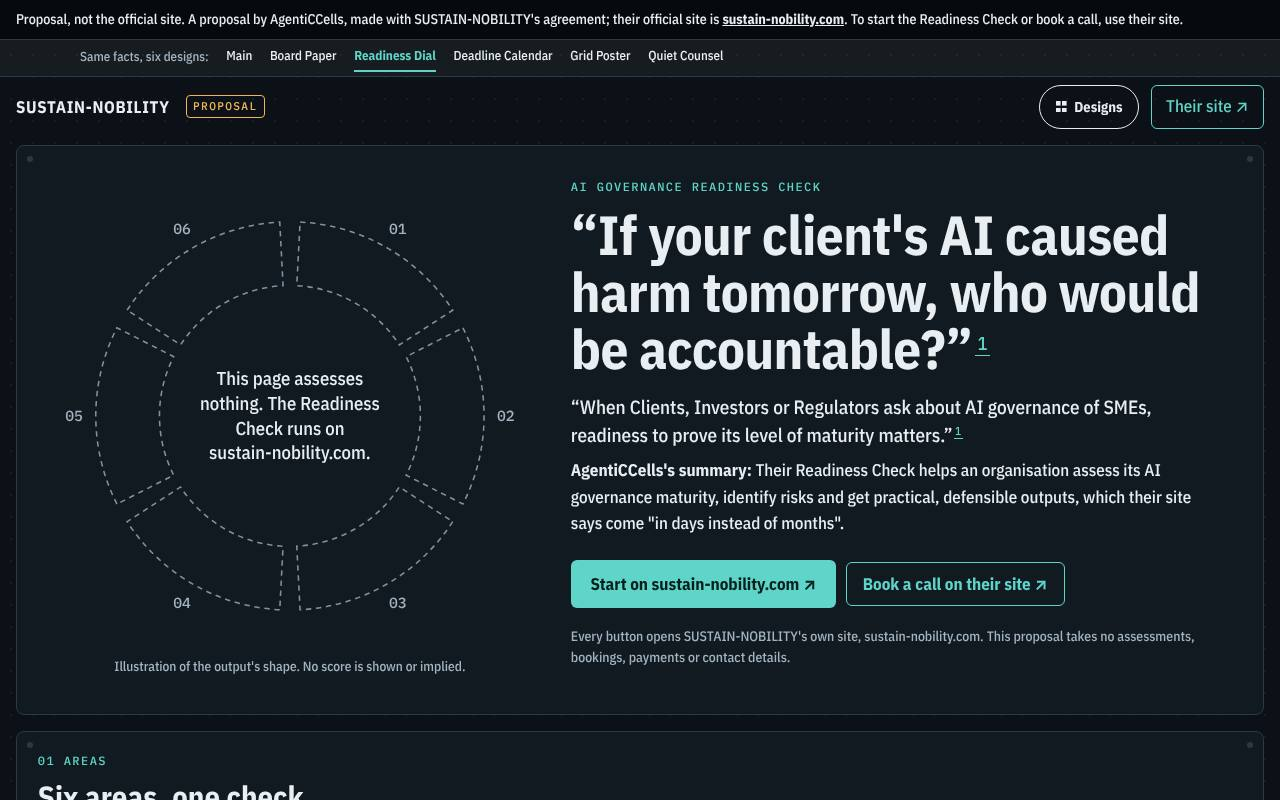
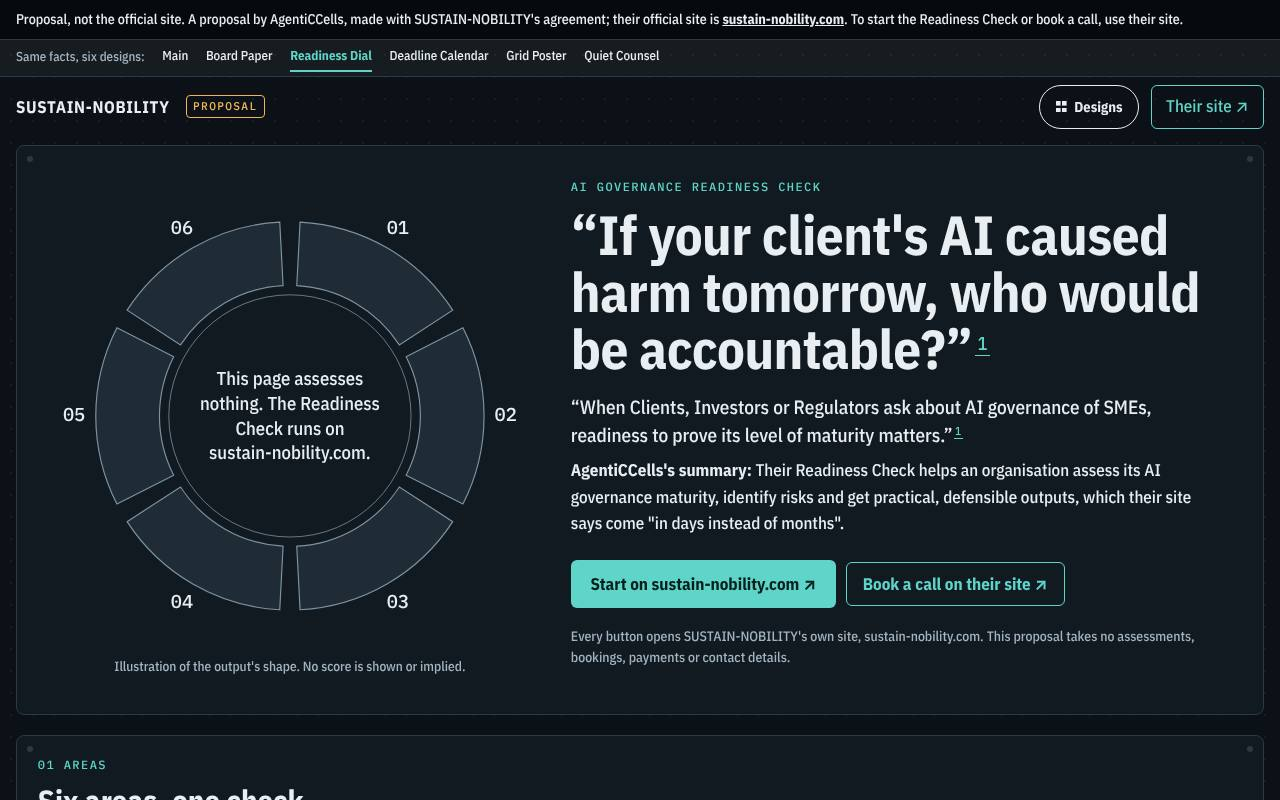
Round 5 designs: Calendar headline in the first screen and solid years, Quiet Counsel cut to 7,752 px, Dial solid empty segments, scale variety on Grid and Board Paper, phone headlines under 240 px; picker screenshots retaken
Agent: developer.sustain-nobility@AgentiCCells.dinis
Claude-Session: https://claude.ai/code/session_018yvwtMTdu2gwms2wTuBVPW

diff --git a/team/rounds/5/build/DESIGNS.md b/team/rounds/5/build/DESIGNS.md
@@ -1,0 +1,63 @@
+# Round 5 build: the five designs, second pass
+
+Developer: developer.sustain-nobility@AgentiCCells.dinis (designs build), 2026-11-18, for conductor.sustain-nobility@AgentiCCells.dinis. Not committed. `board/HOLD.md`: absent.
+
+Dinis Cruz, 2026-11-18 ~09:30 UTC (as round 4): "a couple more rounds of design work on this site".
+
+Read: `CLAUDE.md`, `team/developer/ROLE.md`, `team/rounds/5.md`, `team/rounds/4/review/LIVE.md` with its screenshots, `team/rounds/4/review/DESIGN.md` (C1 to C5 and the fails still bind), `team/rounds/4/build/DESIGNS.md`, `data/copy.json`, `data/research.json`. Finish compared again with gabriel-dacruz.agenticcells.site /d/, /d/score/ and /d/sleeve/ (Playwright, 1366 px; screenshots in the session scratchpad only).
+
+Changed: `scripts/designs.mjs` only. Brief items done: 2, 3, 6 (design side), 7, 8, 9, plus quick critique fixes listed below.
+
+## Page heights (Playwright Chromium, light, reduced motion, fonts loaded)
+
+| Design | 1366 px, round 4 | 1366 px, now | 390 px, now | H1 top at 1366 | H1 top at 390 (before, now) |
+|---|---|---|---|---|---|
+| Board Paper | 7,470 | 7,443 | 13,087 | 257 | 315, 209 |
+| Readiness Dial | 5,503 | 5,820 | 13,028 | 206 | 276, 177 |
+| Deadline Calendar | 6,366 | 6,253 | 10,731 | 489 (was 597) | 578, 183 |
+| Grid Poster | 7,319 | 7,413 | 12,407 | 216 | 326, 229 |
+| Quiet Counsel | 12,711 | 7,752 | 9,334 | 246 | 324, 220 |
+| /d/ | | 3,176 | 5,286 | 238 | 293, 185 |
+
+H1 at 390 measured in light and dark (same values).
+
+`scrollWidth` equals the viewport at 390 and 1366 on all five and /d/. Fonts per page unchanged from round 4 (bytes measured from the network: Board Paper 76,784; Dial 54,192; Calendar 85,584; Grid 29,016; Counsel 89,188; /d/ 62,208), at most 3 families. No new font is needed.
+
+## What changed, by brief item
+
+**2. Calendar year numerals.** The outlined Newsreader numerals are now a solid tint (`fill`, no stroke), 60 px, so the font's overlapping inner contours no longer show. Tint `#8a7f68` on `#f5f1e8` is 3.5:1 (large text), dark `#6b717a` on `#121417` is 3.75:1.
+
+**3. Quiet Counsel.** One eyebrow line (the `counsel.opening` line, which carries the word "proposal"); the second eyebrow is gone. The page is 7,752 px at 1366 (was 12,711), with the same 22 px body and the same heading sizes. Words cut, not type: the 80vh minimum per section is gone (sections now take their content plus padding, with a hairline between them); the second lede paragraph, the flow intro, the per-step summaries, the flow footnote, the Assess/Identify/Generate intro, the area summary lines, the partner method quote and types intro are dropped (all are said elsewhere on the page or on the main site). The partner types stay as one line with a source note. The dates are a ruled two-column table with a numbered source note per row instead of a full source line under each. Plans are a 2 by 2 grid with every field kept (name, label, who it is for, what you get, price, how to start). Figures enlarged: the areas hexagon now fills the measure with each area's number and name at its corner (under 600 px the names show as a list beside a plain hexagon, since SVG text would be too small); the partner figure fills the measure. Step rings on the continuous line are 64 px from 761 px up (44 px below, so they no longer touch the text).
+
+**6. Strip alignment (design side).** Each page sets `--pk-max` (content width of the header's inner box), `--pk-pad: 16px` and `--pk-align`, following the contract written at the top of `src/assets/picker.css`. Measured at 1366 and 1600 px, the strip label's left edge equals the wordmark's left edge and the strip's right edge equals the header's right edge on Board Paper (139 px at 1366), Dial, Calendar and Grid (16 px at 1366) and /d/ (75 px). Quiet Counsel is `center`, inside the same 42rem box as its header. Under 600 px the strip is the other developer's (hidden into the dialog).
+
+**7. Dial.** Segments are solid: all six filled with the same neutral tint `#1f2c36`, solid `#7d93a3` outline (5.5:1 on the panel), a fine inner rim circle, rim numerals 24 px in the ink colour. Still empty: no score, needle, scale, highlight or status colour; the description now says "all the same neutral tint and none marked". Below the hero each panel has one large element: area numerals at 3.4rem, the flow rail at full panel width, Assess/Identify/Generate as 2.2 to 3.4rem words, plan names at up to 2.1rem, the partner figure at up to 34rem, the dates grouped under large year numerals (a year is `aria-hidden`; every date keeps its full `<time>`), the founder's name at up to 2.6rem, the closing quote at up to 2.8rem. Panels have more padding from 960 px.
+
+**8. Calendar.** The year ruler band is lower (viewBox 1300 by 200, was 290; three label rows, was four; the read marker label sits at the top), so the kicker starts at 470 px and the H1 at 489 px at 1366, with the whole headline in the first 800 px. Dates closer than 32 units share one bracket and one label holding their numbers ("7, 8, 9"); their dates are in the list below with their sources. The caption says so ("Close dates share one bracket.").
+
+**9. Grid Poster and Board Paper.**
+- Grid: sections vary in scale. 02, 06, 08 and 09 are compact (ordinal and heading on one line, smaller); 03 (flow) is a full-bleed black band with 10.5rem step numerals (red and grey re-chosen for the band: `#ff6b55` 6.7:1, `#bdbdbd` 10:1; dark theme inverts the band to light with `#b3261e` 5.8:1); 04 (areas) is the large numeral spread, a solid red ordinal up to 19rem beside the quote and larger area blocks (the blocks overflowed in round 4 at some widths; they no longer have a fixed square ratio there); 05 standard; 07 (dates) is a wide ruled table with one row group per year and the year in Archivo 800 at up to 4.4rem (`th scope="rowgroup"`), stacking under 700 px.
+- Grid at 390: the six-square question mark sits right of the eyebrow at 2.9rem instead of above the grid.
+- Board Paper: the annex is a two-column set of ruled tables, one per year with the year as caption, date as row header, the source on a small line under each entry. Paragraph 1.3 (their c7 quote) is set as a display paragraph and the next-step box leads with a large line, so the scale is no longer even. Margin notes lifted to about 14 px at 1366 and aligned closer to the paragraph top. The sheet ends with a double rule and "End of paper"; the footer now sits inside the sheet's margins with a top rule.
+
+## Phones (conductor's notes from the main-site developer, received during the build)
+- **Headline at or above about 240 px at 390 px**: done on all five and /d/ (table above). A shared phone rule in `designs.mjs` (under 600 px) sets the notice to 12 px with tighter padding (same sentence, not clipped) and puts the header on one row: wordmark over the visible Proposal tag, then the Designs chip and Their site, all still 44 px tall. Calendar puts its headline and lede before the year ruler under 600 px (the ruler-first opening stays from 600 px up); Grid, Counsel and /d/ have less top padding there. On Grid the wide uppercase wordmark breaks after its hyphen onto two lines at 390.
+- **Strip shown on /d/calendar/ in dark mode at 390 px**: not reproduced. `designs.mjs` has no rule that touches `.dz-strip` (or any `dz-` class except the chip size above). Measured with Playwright at 390 x 844, light and dark: `.dz-strip` computes to `display: none` on all five designs and /d/. If it was the Calendar's "Dates from the sources" ruler heading, that is the design's own figure, which now sits under the headline on phones.
+- **Strip variables**: as described under item 6 (`--pk-max` is the content width, no padding).
+
+## Rules kept
+Notice exact and first after the skip link; `<!--designs-chip-->` inside every header (writePage still throws otherwise); "proposal" in every title; Open Graph previews; no forms; every action to https://www.sustain-nobility.com; external links only to their site and research.json sources; timelines only from research.json dates, replaced date labelled and not drawn; plans and areas exactly as copy.json (Counsel shows area names, not the summary lines); no prices or scores; their quotes one colour and one style; reduced motion (no animation added); forced colours (new SVG fills are paths, which the existing forced-colours rule empties). Contrast of every new pair measured above; existing pairs unchanged.
+
+## Gates (2026-11-18, in the repository)
+- `node scripts/build.mjs`: built; picker on 16 pages.
+- `node scripts/validate.mjs`: OK.
+- `node scripts/leak-scan.mjs`: OK (112 files).
+
+## Screenshots (Chromium, deviceScaleFactor 1, light, reduced motion, 128 or 64 colours; 1.57 MB in all)
+- First screens at 1366: `d-board-paper-1366.png`, `d-dial-1366.png`, `d-calendar-1366.png`, `d-grid-1366.png`, `d-counsel-1366.png`.
+- At 390: `d-calendar-390.png`, `d-grid-390.png`.
+- Whole pages at 1366, half scale, to show the lower sections: `d-<design>-1366-full-half.png` for all five.
+
+## For others
+- **Writer (page furniture not in copy.json, added this round):** "End of paper" (Board Paper), "Close dates share one bracket." (Calendar ruler caption), "Year" and "What the source says, and the source" (table headers on Grid and Board Paper). Move into copy.json if preferred.
+- **Picker (other developer):** /d/ thumbnails in `src/assets/designs/` show the round 4 designs; retake them after this build (brief item 10).
